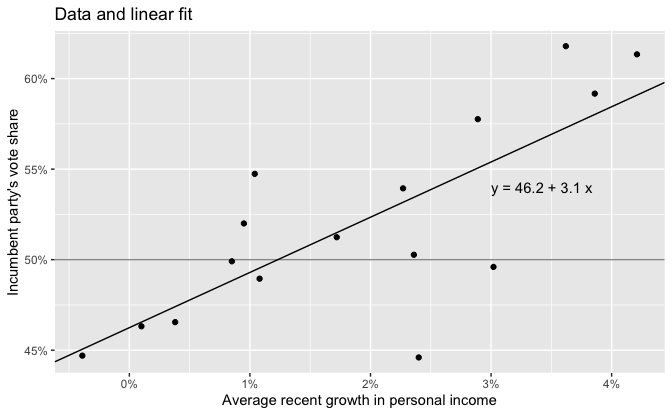
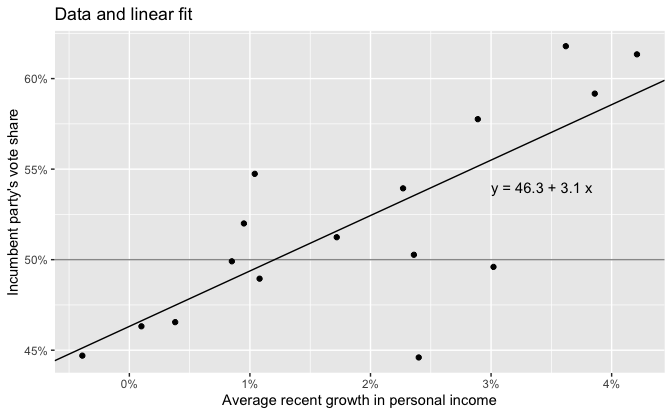
Add Chapter 7 material

diff --git a/ElectionsEconomy/hibbs_tv.md b/ElectionsEconomy/hibbs_tv.md
@@ -1,7 +1,7 @@
 Regression and Other Stories: Elections Economy
 ================
 Andrew Gelman, Jennifer Hill, Aki Vehtari
-2020-12-18
+2020-12-25
 
 -   [Chapter 1](#chapter-1)
     -   [Data](#data)
@@ -10,6 +10,11 @@ Andrew Gelman, Jennifer Hill, Aki Vehtari
     -   [Linear regression](#linear-regression)
         -   [Posterior interval](#posterior-interval)
         -   [Plot regression line](#plot-regression-line)
+-   [Chapter 7](#chapter-7)
+    -   [Plot of economy and election
+        results](#plot-of-economy-and-election-results)
+    -   [Plot of prediction given 2%
+        growth](#plot-of-prediction-given-2-growth)
 
 Tidyverse version by Bill Behrman.
 
@@ -88,6 +93,8 @@ output. This is useful for small data with fast computation. For more
 complex models and bigger data, it can be useful to see the progress.
 
 ``` r
+set.seed(264)
+
 model <- stan_glm(vote ~ growth, data = hibbs, refresh = 0)
 ```
 
@@ -104,7 +111,7 @@ model
     #>  predictors:   2
     #> ------
     #>             Median MAD_SD
-    #> (Intercept) 46.2    1.7  
+    #> (Intercept) 46.3    1.7  
     #> growth       3.1    0.7  
     #> 
     #> Auxiliary parameter(s):
@@ -164,23 +171,23 @@ summary(model)
     #> 
     #> Estimates:
     #>               mean   sd   10%   50%   90%
-    #> (Intercept) 46.2    1.8 44.0  46.2  48.5 
-    #> growth       3.1    0.8  2.1   3.1   4.0 
+    #> (Intercept) 46.3    1.8 44.1  46.3  48.5 
+    #> growth       3.0    0.8  2.1   3.1   4.0 
     #> sigma        4.0    0.8  3.1   3.9   5.1 
     #> 
     #> Fit Diagnostics:
     #>            mean   sd   10%   50%   90%
-    #> mean_PPD 52.0    1.4 50.2  52.0  53.9 
+    #> mean_PPD 52.1    1.5 50.2  52.1  53.9 
     #> 
     #> The mean_ppd is the sample average posterior predictive distribution of the outcome variable (for details see help('summary.stanreg')).
     #> 
     #> MCMC diagnostics
     #>               mcse Rhat n_eff
-    #> (Intercept)   0.0  1.0  3103 
-    #> growth        0.0  1.0  3093 
-    #> sigma         0.0  1.0  2618 
-    #> mean_PPD      0.0  1.0  3410 
-    #> log-posterior 0.0  1.0  1730 
+    #> (Intercept)   0.0  1.0  3056 
+    #> growth        0.0  1.0  3162 
+    #> sigma         0.0  1.0  2352 
+    #> mean_PPD      0.0  1.0  3299 
+    #> log-posterior 0.0  1.0  1256 
     #> 
     #> For each parameter, mcse is Monte Carlo standard error, n_eff is a crude measure of effective sample size, and Rhat is the potential scale reduction factor on split chains (at convergence Rhat=1).
 
@@ -192,9 +199,9 @@ posterior_interval(model) %>%
 ```
 
     #>               5%  95%
-    #> (Intercept) 43.4 49.1
+    #> (Intercept) 43.5 49.1
     #> growth       1.8  4.3
-    #> sigma        2.9  5.5
+    #> sigma        3.0  5.5
 
 ### Plot regression line
 
@@ -223,3 +230,93 @@ hibbs %>%
 ```
 
 <img src="hibbs_tv_files/figure-gfm/unnamed-chunk-9-1.png" width="100%" />
+
+# Chapter 7
+
+## Plot of economy and election results
+
+``` r
+v <- 
+  hibbs %>% 
+  mutate(
+    label = str_glue("  {inc_party_candidate} vs. {other_candidate} ({year})  "),
+    hjust = 
+      if_else(
+        year %in% c(1960, 1964, 1972, 1976, 1984, 1996, 2012),
+        "right",
+        "left"
+      ),
+    vjust =
+      case_when(
+        year == 1992 ~ 0,
+        year == 2000 ~ 0.2,
+        year %in% c(1960, 2008) ~ 1,
+        TRUE ~ 0.5
+      )
+  )
+
+v %>% 
+  ggplot(aes(growth, vote)) +
+  geom_hline(yintercept = 50, color = "grey60") +
+  geom_point() +
+  geom_text(aes(label = label, hjust = hjust, vjust = vjust)) +
+  scale_x_continuous(
+    labels = scales::label_percent(accuracy = 1, scale = 1),
+    expand = expansion(add = c(0.8, 1.2))
+  ) +
+  scale_y_continuous(labels = scales::label_percent(accuracy = 1, scale = 1)) +
+  labs(
+    title = "Forecasting elections from the economy",
+    x = "Income growth",
+    y = "Incumbent party's share of the popular vote"
+  )
+```
+
+<img src="hibbs_tv_files/figure-gfm/unnamed-chunk-10-1.png" width="100%" />
+
+``` r
+growth <- 2
+```
+
+## Plot of prediction given 2% growth
+
+``` r
+vote_pred <- predict(model, newdata = tibble(growth = growth))
+sd <- sigma(model)
+
+v <- 
+  tibble(
+    vote = c(50, seq(vote_pred - 4 * sd, vote_pred + 4 * sd, length.out = 201)),
+    y = dnorm(vote, mean = vote_pred, sd = sd)
+  )
+
+label <-
+  str_glue(
+    "Predicted\n",
+    "{format(100 * (1 - pnorm(50, mean = vote_pred, sd = sd)), digits = 0)}% ",
+    "chance\n",
+    "of Clinton victory"
+  )
+
+v %>% 
+  ggplot(aes(vote, y)) +
+  geom_area(data = . %>% filter(vote >= 50), fill = "grey70") +
+  geom_line() +
+  geom_segment(
+    aes(x = 50, xend = 50, y = 0, yend = dnorm(50, mean = vote_pred, sd = sd))
+  ) +
+  annotate("text", x = 51.5, y = 0.025, label = label, hjust = 0) +
+  scale_x_continuous(
+    breaks = scales::breaks_width(5),
+    labels = scales::label_percent(accuracy = 1, scale = 1)
+  ) +
+  scale_y_continuous(breaks = 0) +
+  labs(
+    title = "Probability forecast of Hillary Clinton vote share in 2016",
+    subtitle = str_glue("Based upon {growth}% rate of economic growth"),
+    x = "Clinton share of the two-party vote",
+    y = NULL
+  )
+```
+
+<img src="hibbs_tv_files/figure-gfm/unnamed-chunk-12-1.png" width="100%" />
